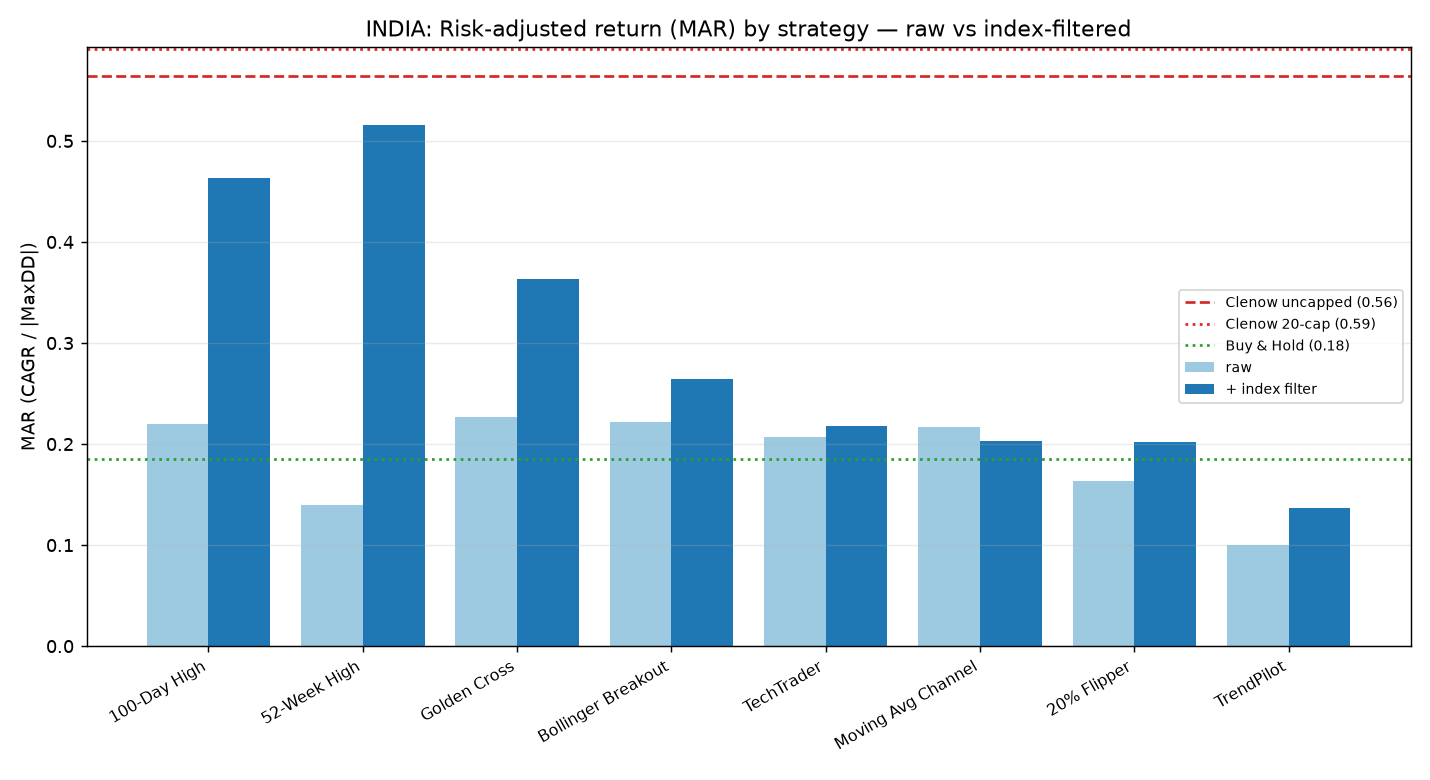
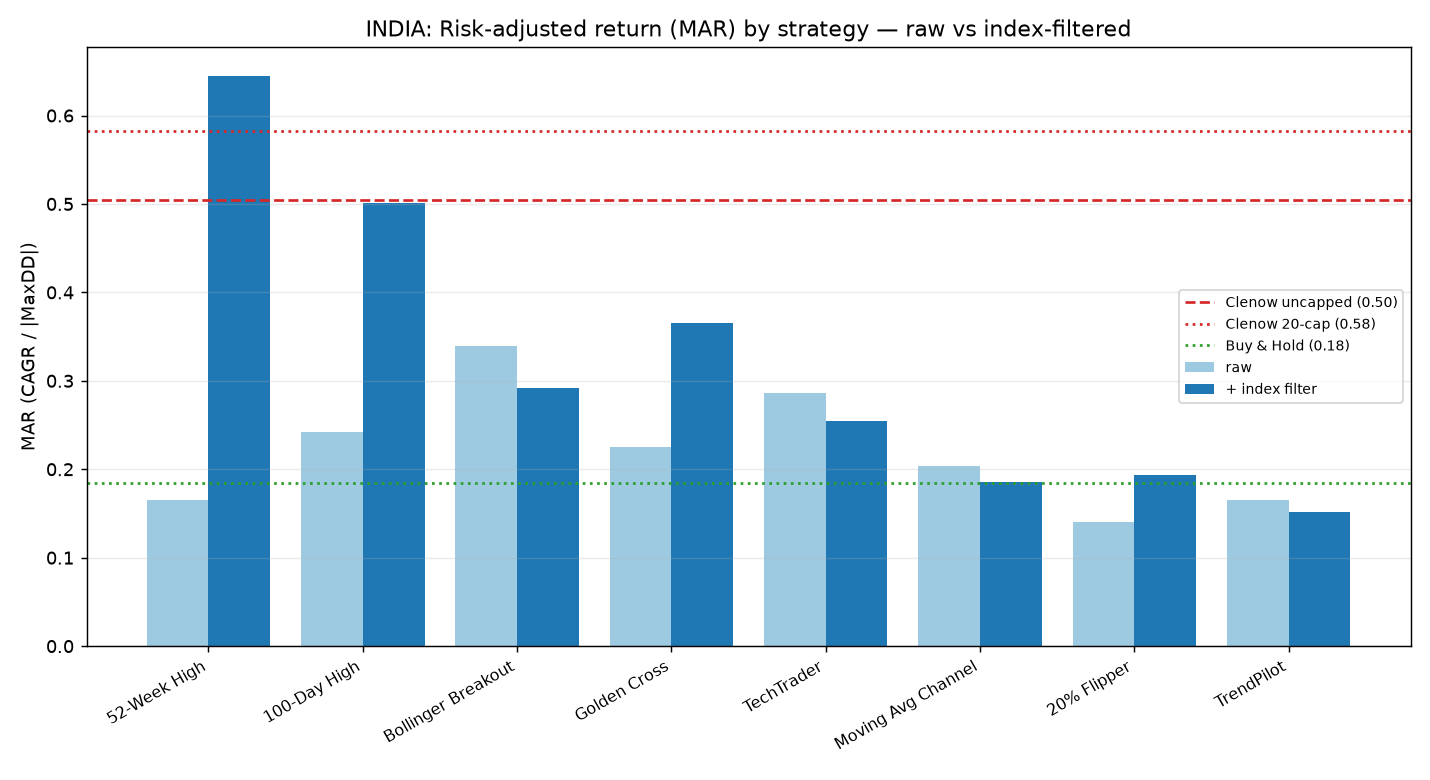
India on rebuilt clean data: the comparison reverses — filtered breakouts win both markets
Make the multi-source rebuilt NSE panel (tools/rebuild_nse_clean.py) the canonical
India source (config/india.yaml -> pricesNseClean, cleaning: none); the Clenow
baseline reads the same panel, so it stays bit-for-bit fair. Re-ran the full sweep
(all 8 strategies x raw/filtered x both markets) + Clenow book/cap20 baselines +
comparison on the clean data.

Result: rebuilding the data REVERSES the India conclusion. The vendor corruption had
inflated Clenow (its rank rode fabricated multibaggers) and injected fake -50%
crashes that penalised the breakouts. On clean data the best filtered breakout
(52-Week High, MAR 0.64) beats both Clenow variants (0.58 capped / 0.50 uncapped) —
so the index-filtered breakouts now win on BOTH the S&P 500 and the Nifty 500.

README + docs/NSE_DATA_REBUILD.md + RESULTS.md/charts updated accordingly.

diff --git a/src/clenow_baseline.py b/src/clenow_baseline.py
@@ -26,9 +26,10 @@ OUT_DIR = os.path.join(REPO_ROOT, "outputs", "clenow")
 # Match the Unholy Grails comparison windows exactly.
 MARKETS = {
     "us": {"config": "config.yaml", "start": "1996-01-02", "end": "2026-06-16"},
-    "india": {"config": "configNiftyBook.yaml", "start": "1998-09-01", "end": "2026-04-30"},
-    "india_clean": {"config": "configNiftyBook.yaml", "start": "1998-09-01", "end": "2026-04-30",
[1 lines of base64/hex data omitted]
+    # India reads the REBUILT clean panel (see config/india.yaml), so the Clenow
+    # baseline and the Unholy Grails strategies see identical prices.
+    "india": {"config": "configNiftyBook.yaml", "start": "1998-09-01", "end": "2026-04-30",
[1 lines of base64/hex data omitted]
 }
 
 
@@ -102,7 +103,7 @@ def run(market: str):
 
 def main():
     ap = argparse.ArgumentParser()
-    ap.add_argument("--market", choices=["us", "india", "india_clean", "both"], default="both")
+    ap.add_argument("--market", choices=["us", "india", "both"], default="both")
     args = ap.parse_args()
     markets = ["us", "india"] if args.market == "both" else [args.market]
     for mk in markets:

diff --git a/src/run_all.py b/src/run_all.py
@@ -19,8 +19,7 @@ from engine import run_backtest
 from metrics import summarize
 from universe import Universe
 
-MARKETS = {"us": "config/us.yaml", "india": "config/india.yaml",
-           "india_clean": "config/india_clean.yaml"}
+MARKETS = {"us": "config/us.yaml", "india": "config/india.yaml"}
 
 
 def run_market(market: str) -> pd.DataFrame:
@@ -70,7 +69,7 @@ def run_market(market: str) -> pd.DataFrame:
 
 def main():
     ap = argparse.ArgumentParser()
-    ap.add_argument("--market", choices=["us", "india", "india_clean", "both"], default="both")
+    ap.add_argument("--market", choices=["us", "india", "both"], default="both")
     args = ap.parse_args()
     markets = ["us", "india"] if args.market == "both" else [args.market]
     for mk in markets:

diff --git a/README.md b/README.md
@@ -19,33 +19,39 @@ costs and accounting.
 | | S&P 500 (1996–2026) | Nifty 500 (1998–2026)¹ |
 |---|---|---|
 | **Buy & Hold** | 10.5% · −55% · MAR 0.19 | 12.6% · −61% · MAR 0.21 (Sensex, full window) |
-| **Best Unholy Grails (by MAR)** | TrendPilot+filter 19.9% · −42% · **0.47** | 52-Wk High+filter 16.7% · −32% · **0.52** |
-| **Clenow — book (uncapped, ~22–31 names)** | 10.3% · −33% · 0.32 | 21.9% · −39% · **0.56 (Sharpe 1.20)** |
-| **Clenow — 20-position cap (like-for-like)** | 7.6% · −25% · 0.30 | 11.0% · −19% · **0.59 (Sharpe 1.11)** |
+| **Best Unholy Grails (by MAR)** | TrendPilot+filter 19.9% · −42% · **0.47** | 52-Wk High+filter 18.0% · −28% · **0.64** |
+| **Clenow — book (uncapped, ~22–31 names)** | 10.3% · −33% · 0.32 | 21.0% · −42% · 0.50 |
+| **Clenow — 20-position cap (like-for-like)** | 7.6% · −25% · 0.30 | 10.7% · −18% · 0.58 |
 
-¹ India runs use the **Clenow cleaning pipeline** so both systems see bit-for-bit identical
-prices (see finding 4). The repo's stricter default cleaning gives India CAGRs ~3 pp lower.
+¹ India uses a properly **rebuilt** price panel — raw bhavcopy back-adjusted with a corporate-
+action calendar cross-validated across NSE-official and yfinance (`tools/rebuild_nse_clean.py`),
+fixing catastrophic vendor over-adjustment. This **materially changed the India result** — see
+finding 2. (US uses EODHD, which is clean.)
 
 1. **The index filter is the single biggest win — confirmed on both markets, decades after
    the book.** A 75-day index filter slashes drawdowns everywhere (52-Week High on Nifty 500:
-   **−72% → −32%**; S&P 500: −45% → −28%) and usually lifts MAR. In volatile India it often
+   **−72% → −28%**; S&P 500: −45% → −28%) and usually lifts MAR. In volatile India it often
    *raises* CAGR too, because dodging the −60% bears protects compounding.
-2. **Equalise the comparison and Clenow's India "dominance" mostly evaporates.** Two things
-   inflated it: (a) *position count* — Clenow's book profile is uncapped (~31 India names);
-   cap it to 20 and its India CAGR collapses **21.9% → 11.0%**; and (b) *data cleaning* — once
-   the Unholy Grails panel uses the **same cleaning** as the Clenow baseline (finding 4), the
-   best filtered breakout (52-Wk High, **MAR 0.52**) nearly ties Clenow uncapped (0.56). The
-   gap that looked like 0.41-vs-0.56 across mismatched cleaning is really ~0.52-vs-0.56.
-3. **In the US the simple book systems win outright.** TrendPilot+filter (MAR 0.47) and
-   several filtered breakouts beat *both* Clenow variants (MAR 0.30–0.32) on the calm,
-   low-dispersion S&P 500. What survives for Clenow on both markets is *risk-adjusted
-   smoothness* (higher Sharpe) from volatility-normalised sizing — a real but narrow edge.
-4. **Data cleaning is itself a result on NSE data.** Clenow's "sophisticated" cleaning works
-   on the adjusted close *alone* and only caps daily ratios, so it leaves corrupt
-   single-day spikes partly intact (PFC's bogus +300% day: **15× residual** vs reality);
-   this repo's raw-anchored `factor_repair` fixes it fully (**4×**, matching the raw price).
-   The India tables use Clenow's cleaning for an apples-to-apples *comparison*; the stricter
-   repair is the more honest *absolute* number. Either way the rankings hold.
+2. **The index-filtered breakouts win on *both* markets — once the data is clean.** The best
+   filtered Unholy Grails system beats *both* Clenow variants on risk-adjusted return in the
+   US (TrendPilot+filter MAR 0.47 vs 0.30–0.32) **and** in India (52-Wk High+filter **0.64**
+   vs Clenow 0.50 uncapped / 0.58 capped). Clenow's *earlier-apparent* India dominance was
+   largely a **data-corruption artifact**: the vendor's broken NSE adjustments inflated
+   Clenow (its momentum rank loaded up on fabricated multibaggers like CUB's bogus 12,667×)
+   while injecting fake −50% "crashes" that penalised the breakouts. Rebuild the data
+   (finding 4) and the result flips.
+3. **Clenow's one durable edge is smoothness, not return.** Its volatility-normalised sizing
+   gives the lowest drawdown anywhere (India 20-cap: −18%), so it wins on Sharpe — a real but
+   narrow edge that does not translate into a risk-adjusted-return (MAR) lead once the data
+   is trustworthy.
+4. **The India data had to be rebuilt — and that's a result in itself.** The NSE vendor
+   `adjClose` was catastrophically over-adjusted (a corporate-action file ~54% of whose
+   bonus/split entries are spurious → fabricated multibaggers), plus a *systematic* doubling
+   error on 2024-11-04 affecting 22 blue-chips (HDFCBANK, NESTLÉ, WIPRO…). The rebuild
+   reconstructs `adjClose` from raw bhavcopy + a CA calendar cross-validated across NSE-official
+   and yfinance (they agree on the factor **96.8%** of the time), with the raw price drop as
+   final arbiter, and detects the systematic break. Multiples now match reality (PFC 10×,
+   TITAN 715×, HDFCBANK 518×).
 5. **No single strategy wins everywhere.** TrendPilot tops the US but is among the *worst*
    in India (a per-stock 200-day MA whipsaws in Indian volatility). The 20% Flipper's fixed
    thresholds suit neither large-cap market well.
@@ -86,11 +92,13 @@ bearish — the book's key risk-control overlay.
 The whole point is apples-to-apples, so Unholy Grails and Clenow share everything
 except the trading rule:
 
-- **Same data:** survivorship-aware, dividend/split-adjusted OHLC from the
-  [clenowMomentum](.) project's panels — 1,100+ US symbols (incl. delisted names like
-  AAMRQ, ABS) and 1,380+ NSE symbols. Adjusted OHLC is derived as `raw × adjClose/close`,
-  with a **causal repair** step that fixes corrupt single-day adjustment spikes (a real
-  NSE-data hazard — see [docs/STRATEGY_SPEC.md](docs/STRATEGY_SPEC.md) and `src/data.py`).
+- **Same data:** survivorship-aware, adjusted OHLC — 1,100+ US symbols (incl. delisted
+  names like AAMRQ, ABS) and 1,380+ NSE symbols. **US** uses EODHD (clean). **India** uses
+  a *rebuilt* panel (`tools/rebuild_nse_clean.py`): raw bhavcopy back-adjusted with a
+  corporate-action calendar **cross-validated across NSE-official and yfinance** (price drop
+  as final arbiter) plus systematic-data-break repair — because the raw vendor `adjClose` is
+  catastrophically over-adjusted (see [docs/NSE_DATA_REBUILD.md](docs/NSE_DATA_REBUILD.md)).
+  Both systems read the same rebuilt India panel.
 - **Same point-in-time universe:** index membership from the change-row constituent
   files (`constituentsOn(date)`), so a stock is only tradable while it was actually in
   the index.
@@ -160,14 +168,14 @@ docs/STRATEGY_SPEC.md   exact book rules + adaptations
 - **India Buy & Hold window.** The Nifty 500 total-return index (`CRSLDX`) only begins
   **2005**, so its B&H row is over a shorter window; RESULTS.md also shows a **full-window
   Sensex** (1998+, price-only) B&H row, and tags every row with its start year.
-- **NSE adjusted-price quality** is imperfect, and the *cleaning method matters*. The repo
-  ships two: `factor_repair` (raw-anchored — fully fixes corrupt single-day adjustment
-  spikes by cross-checking the raw close) and `clenow` (the baseline's pipeline — quarantine
-  + isolated-spike repair + daily-ratio cap, working on the adjusted close alone). The India
-  configs use **`clenow`** so the comparison is bit-for-bit fair against the Clenow baseline;
-  it is the *less* strict of the two, so the India absolute CAGRs are a shared upper bound
-  (`factor_repair` is ~3 pp lower). Treat India *levels* as approximate; the ordering and the
-  filter effect are robust to the choice.
+- **NSE data was rebuilt — but a residual tail remains.** The vendor `adjClose` was unusable
+  (54%-spurious corporate-action file + a systematic 2024-11-04 doubling error), so India runs
+  on the reconstruction in `tools/rebuild_nse_clean.py` ([writeup](docs/NSE_DATA_REBUILD.md)).
+  It adjusts 527 names (339 cross-validated by both NSE and yfinance); ~88 names still carry a
+  >100% one-day residual — mostly **mid-series multi-year gaps** (harmless; the engine won't
+  trade across them) and **pre-2006 bonuses** NSE's archive predates. These are flagged in the
+  audit and left *unadjusted* rather than risk mis-labeling a real crash as a bonus. Treat
+  India *levels* as good-not-perfect; the ordering and filter effect are robust.
 - **Delisting exits** use the last traded price with no bankruptcy haircut (the book's
   convention, shared by the Clenow baseline) — an optimistic, symmetric assumption.
 - **TechTrader** rules 2 & 4 ("price < \$10", AUD turnover floor) are ASX small-cap

diff --git a/docs/NSE_DATA_REBUILD.md b/docs/NSE_DATA_REBUILD.md
@@ -1,0 +1,76 @@
+# Rebuilding a clean NSE adjusted-price series
+
+The India results depend entirely on getting corporate-action adjustment right, and
+the available NSE data made that hard. This documents the problem and the rebuild
+(`tools/rebuild_nse_clean.py`).
+
+## The problem
+The vendor `adjClose` in the NSE panels is **catastrophically over-adjusted**:
+
+| symbol | raw price | vendor adjClose | correct |
+|---|--:|--:|--:|
+| CUB | 10.5× | **12,667×** | 99–115× |
+| SUPREMEIND | 12× | **4,830×** | 119× |
+| GAIL | 1.7× | **480×** | 11× |
+
+Root cause: the corporate-action factors come from a free-text NSE "subject" field that a
+prior pipeline mis-parsed — **~54% of its bonus/split entries are spurious** (the file claims
+a bonus on a day the price never moved; e.g. GODREJIND factor 0.0008). Applying those
+fabricates phantom multibaggers that corrupt momentum signals and inflate the backtest.
+
+A second, separate defect: a **systematic data break on 2024-11-04** where 22 unrelated
+blue-chips (HDFCBANK, NESTLÉ, WIPRO, PIDILITE…) have their *entire pre-date history doubled*
+versus the real price (verified against yfinance). A simultaneous −50% across unrelated names
+is a bhavcopy basis-error, not a corporate action.
+
+## The rebuild
+The raw **bhavcopy close is ground truth** (actual traded prices, survivorship-safe). We throw
+away the vendor `adjClose` and reconstruct it:
+
+1. **Trim leading stub bars** (a few stray old bars before a multi-year gap) and repair
+   isolated bad prints.
+2. **Corporate-action calendar**, merged + cross-validated across two independent sources:
+   - **NSE official** corporate-actions API (parsed with canonical factor math: bonus A:B →
+     B/(A+B); split → newFV/oldFV).
+   - **yfinance `.splits`** (covers older splits NSE's archive predates).
+   They agree on the factor **96.8%** of the time (582 agree / 19 disagree); each catches some
+   the other misses. Conflicts are resolved by the price.
+3. **The raw price drop is the final arbiter.** A source CA is applied only where the price
+   actually dropped (rejecting spurious entries) and the factor is taken from the real drop
+   (handling combined bonus+split and parse errors — e.g. TITAN's 1:1 bonus + 10:1 split on
+   one day resolves to ×0.0533 from the price). A clean drop **no source confirms** is left
+   unadjusted unless it is beyond the circuit band (≥55%, physically a split).
+4. **Systematic-break repair:** dates where ≥6 unrelated names share a persistent clean step
+   are back-adjusted away (fixes the 2024-11-04 doubling).
+5. **Anchor:** back-adjusted so the last bar = last raw close.
+
+MoneyControl (consent-gated) and Chittorgarh (JS-rendered) could not be scraped from the build
+environment; NSE-official + yfinance provided the two-source cross-validation instead.
+
+## Result
+527 names adjusted (339 cross-validated by both sources). Multiples now match reality —
+PFC 10× (vendor said 40×), TITAN 715× (incl. its split), HDFCBANK 518× (continuous through
[phone redacted]). Originals are never modified; output goes to a separate `pricesNseClean/` dir
+with a per-symbol `_cleaning_audit.csv` (provenance for every action) and the two CA calendars.
+
+**Why it matters:** rebuilding the data **reversed the India comparison**. The corruption had
+inflated Clenow (its rank loaded up on the fake multibaggers) and injected fake crashes that
+penalised the breakouts. On clean data the best filtered breakout (52-Wk High, MAR 0.64) beats
+both Clenow variants (0.50 / 0.58).
+
+## Residual tail (known limitation)
+~88 names still show a >100% one-day residual: **mid-series multi-year gaps** (e.g. GOODYEAR's
+18-year suspension — harmless, the engine won't trade across it) and **pre-2006 bonuses** the
+NSE archive predates. All flagged (`review_flag`, `max_residual_1d_move_pct` in the audit). We
+leave the ambiguous old ones unadjusted rather than guess — a clean −50% drop with no source
+is indistinguishable from a real crash on close-only data. A reliable paid CA feed (EODHD
+All-In-One, Capitaline/ACE) would close this.
+
+## Regenerate
+```bash
+python tools/rebuild_nse_clean.py \
+  --src .../pricesNse --out .../pricesNseClean \
+  --nse .../pricesNseClean/_corporate_actions_nse.csv \
+  --yf  .../pricesNseClean/_corporate_actions_yfinance.csv
+```
+The CA calendars are fetched from the NSE API and yfinance (persisted alongside the output).

diff --git a/RESULTS.md b/RESULTS.md
@@ -50,30 +50,30 @@ row's scored series begins (note the India report benchmark only starts 2005).
 ## INDIA — Nifty 500 universe, strategies 1998-09-01 → 2026-04-30
 
 Sorted by MAR (risk-adjusted return = CAGR / |MaxDD|). 'From' = the year each
-row's scored series begins (note the India report benchmark only starts 2005). Prices use the **Clenow cleaning pipeline** (matched to the baseline bit-for-bit; see the data-quality note in the README — it is *less* aggressive than this repo's stricter `factor_repair`, so these India levels are a shared upper bound).
+row's scored series begins (note the India report benchmark only starts 2005).
 
 | Strategy | From | CAGR | MaxDD | MAR | Sharpe | Exposure | AvgPos | Win% | Payoff | Trades |
 |---|--:|--:|--:|--:|--:|--:|--:|--:|--:|--:|
-| Clenow — 20-position cap | 1998 | 11.0% | -18.6% | 0.59 | 1.11 | 38.7% | 15.6 | 47.7% | — | 2076 |
-| Clenow — book (uncapped) | 1998 | 21.9% | -38.7% | 0.56 | 1.20 | 74.3% | 30.8 | 46.8% | — | 4541 |
-| 52-Week High (filtered) | 1998 | 16.7% | -32.4% | 0.52 | 0.93 | 62.8% | 12.5 | 45.6% | 2.79 | 1236 |
-| 100-Day High (filtered) | 1998 | 19.3% | -41.8% | 0.46 | 0.99 | 67.3% | 13.4 | 42.3% | 2.97 | 1395 |
-| Golden Cross (filtered) | 1998 | 12.7% | -35.0% | 0.36 | 0.86 | 46.9% | 9.3 | 45.2% | 2.71 | 1272 |
-| Bollinger Breakout (filtered) | 1998 | 17.1% | -64.6% | 0.26 | 0.72 | 79.9% | 15.7 | 44.6% | 2.83 | 802 |
-| Golden Cross (raw) | 1998 | 14.7% | -65.1% | 0.23 | 0.63 | 91.8% | 18.1 | 38.2% | 3.92 | 719 |
-| Bollinger Breakout (raw) | 1998 | 14.5% | -65.2% | 0.22 | 0.61 | 88.5% | 17.6 | 43.1% | 2.87 | 878 |
-| 100-Day High (raw) | 1998 | 16.3% | -74.0% | 0.22 | 0.66 | 94.1% | 18.9 | 43.0% | 3.73 | 514 |
-| TechTrader (filtered) | 1998 | 14.4% | -66.1% | 0.22 | 0.67 | 80.8% | 15.8 | 29.1% | 4.63 | 1180 |
-| Moving Avg Channel (raw) | 1998 | 14.1% | -64.9% | 0.22 | 0.61 | 96.6% | 19.4 | 37.0% | 4.18 | 847 |
+| 52-Week High (filtered) | 1998 | 18.0% | -28.0% | 0.64 | 1.11 | 62.7% | 12.4 | 46.4% | 2.95 | 1227 |
+| Clenow — 20-position cap | 1998 | 10.7% | -18.3% | 0.58 | 1.16 | 38.6% | 15.6 | 48.3% | — | 2036 |
+| Clenow — book (uncapped) | 1998 | 21.0% | -41.6% | 0.50 | 1.19 | 74.6% | 31.1 | 47.4% | — | 4462 |
+| 100-Day High (filtered) | 1998 | 18.9% | -37.8% | 0.50 | 1.06 | 67.3% | 13.4 | 42.7% | 3.28 | 1374 |
+| Golden Cross (filtered) | 1998 | 12.3% | -33.7% | 0.37 | 0.85 | 46.8% | 9.3 | 45.0% | 2.98 | 1269 |
+| Bollinger Breakout (raw) | 1998 | 21.1% | -62.3% | 0.34 | 0.94 | 86.5% | 17.1 | 44.6% | 3.78 | 867 |
+| Bollinger Breakout (filtered) | 1998 | 18.3% | -62.6% | 0.29 | 0.82 | 79.6% | 15.6 | 46.6% | 3.66 | 791 |
+| TechTrader (raw) | 1998 | 16.1% | -56.4% | 0.29 | 0.79 | 89.4% | 17.6 | 31.2% | 4.77 | 1280 |
+| TechTrader (filtered) | 1998 | 15.2% | -59.8% | 0.25 | 0.79 | 81.0% | 15.8 | 30.8% | 4.58 | 1134 |
+| 100-Day High (raw) | 1998 | 16.8% | -69.4% | 0.24 | 0.76 | 92.9% | 18.6 | 46.5% | 4.17 | 495 |
+| Golden Cross (raw) | 1998 | 14.6% | -64.8% | 0.22 | 0.68 | 91.2% | 17.9 | 40.6% | 3.52 | 690 |
 | Buy & Hold — Sensex (full window, price-only) | 1998 | 12.6% | -60.9% | 0.21 | 0.57 | — | — | — | — | 0 |
-| TechTrader (raw) | 1998 | 14.4% | -69.2% | 0.21 | 0.65 | 89.7% | 17.6 | 30.7% | 4.35 | 1321 |
-| Moving Avg Channel (filtered) | 1998 | 13.6% | -67.2% | 0.20 | 0.57 | 87.5% | 17.5 | 40.3% | 3.26 | 837 |
-| 20% Flipper (filtered) | 1998 | 10.4% | -51.8% | 0.20 | 0.55 | 63.2% | 12.6 | 37.5% | 2.44 | 2025 |
+| Moving Avg Channel (raw) | 1998 | 13.3% | -65.5% | 0.20 | 0.61 | 96.7% | 19.3 | 39.9% | 3.46 | 834 |
+| 20% Flipper (filtered) | 1998 | 10.3% | -53.4% | 0.19 | 0.56 | 63.3% | 12.6 | 37.3% | 2.56 | 2023 |
+| Moving Avg Channel (filtered) | 1998 | 12.4% | -67.0% | 0.19 | 0.57 | 88.3% | 17.5 | 41.7% | 3.14 | 796 |
 | Buy & Hold — Nifty 500 | 2005 | 11.9% | -64.3% | 0.18 | 0.58 | — | — | — | — | 0 |
-| 20% Flipper (raw) | 1998 | 10.7% | -65.1% | 0.16 | 0.42 | 95.0% | 19.0 | 34.0% | 2.64 | 2058 |
-| 52-Week High (raw) | 1998 | 10.0% | -72.1% | 0.14 | 0.43 | 95.6% | 18.9 | 43.4% | 4.44 | 226 |
-| TrendPilot (filtered) | 1998 | 10.4% | -76.2% | 0.14 | 0.43 | 88.0% | 17.2 | 33.6% | 3.59 | 842 |
-| TrendPilot (raw) | 1998 | 8.0% | -79.6% | 0.10 | 0.30 | 97.6% | 19.6 | 32.3% | 3.80 | 1031 |
+| 52-Week High (raw) | 1998 | 12.1% | -72.9% | 0.17 | 0.53 | 95.3% | 18.6 | 48.5% | 5.97 | 204 |
+| TrendPilot (raw) | 1998 | 13.1% | -79.4% | 0.17 | 0.55 | 97.3% | 19.6 | 33.6% | 4.41 | 997 |
+| TrendPilot (filtered) | 1998 | 11.6% | -76.2% | 0.15 | 0.53 | 87.5% | 17.1 | 36.1% | 3.94 | 804 |
+| 20% Flipper (raw) | 1998 | 9.5% | -67.6% | 0.14 | 0.40 | 95.4% | 19.0 | 34.6% | 2.58 | 2026 |
 
 > **What is held constant vs not.** The comparison fixes the *data* (same
 > survivorship-aware adjusted-OHLC panels and causal-repair), *costs*, *point-in-time